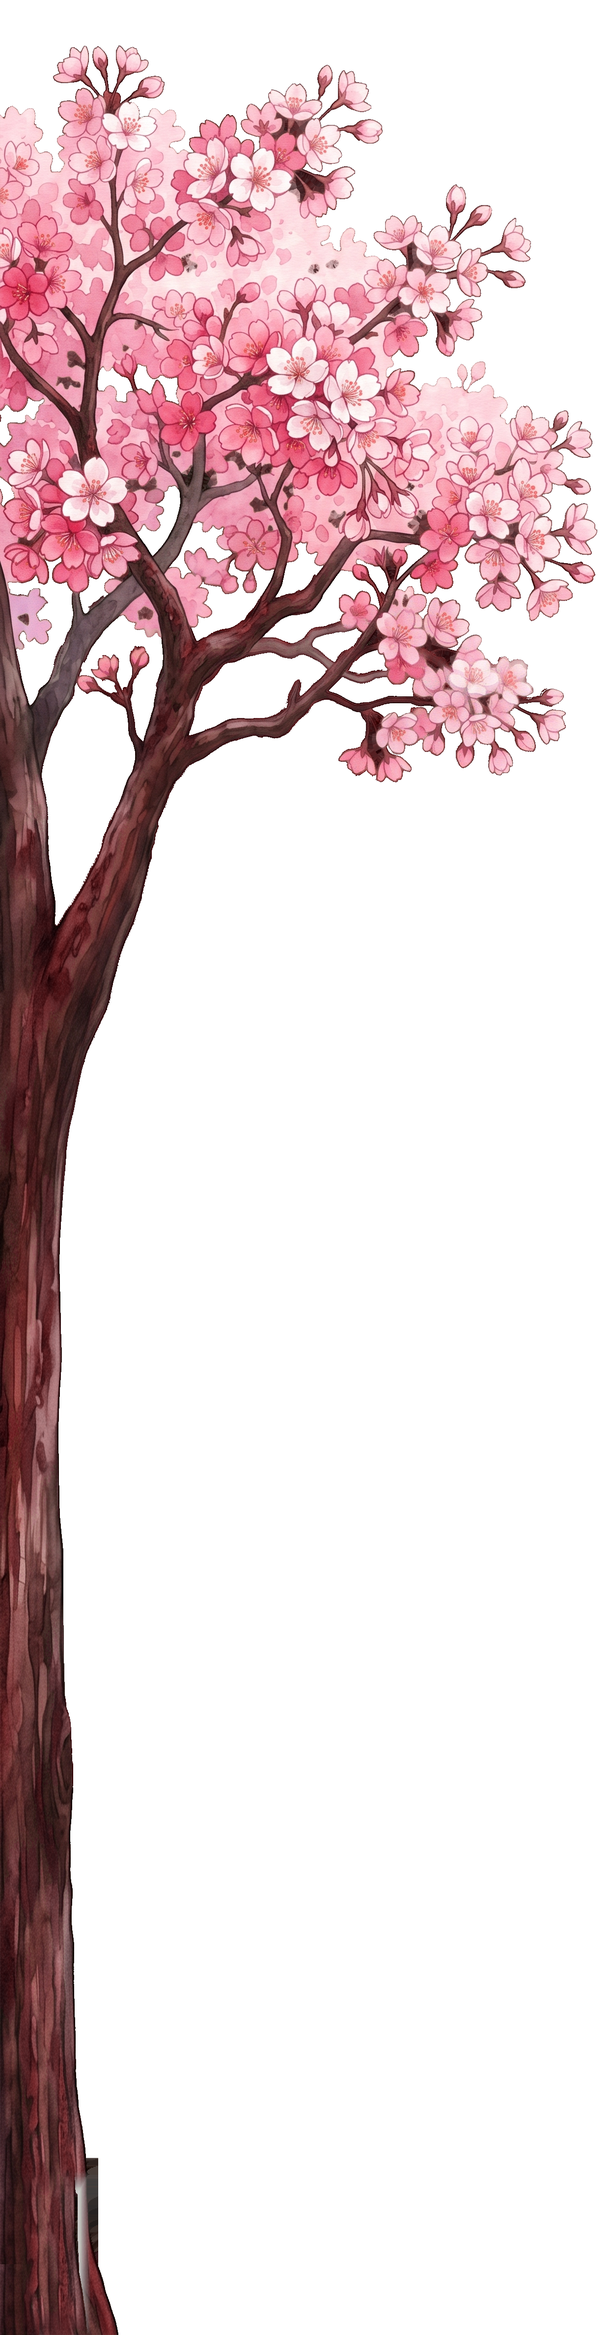
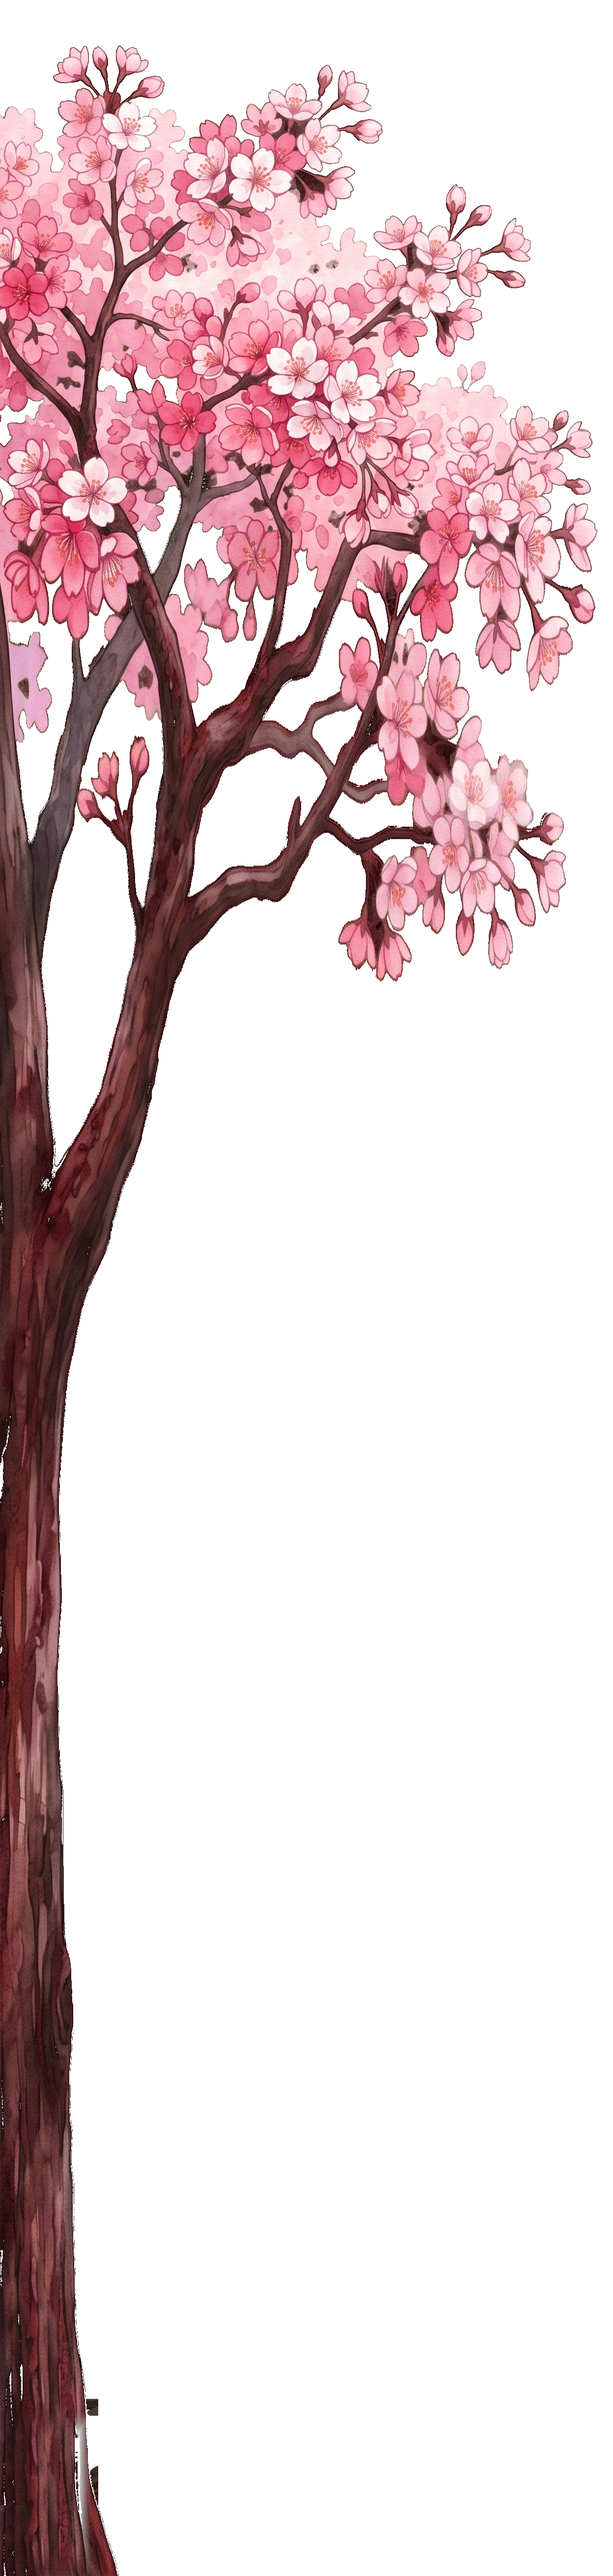
fix: 트리 split 32%로 + 검은 박스 제거
유저 보고:
- "left 중간에 나뭇가지도 늘린 것 같아" — split 50%가 너무 아래라 30~50% canopy 가지가 stretch 됨
- "left,right 최하단 양끝에 네모난 검은 박스 존재" — trunk 그림자 픽셀이 stretch 후 두드러짐

분석 결과:
- 실제 canopy 끝: y 30% (opaque width 745) → trunk 시작 40%
- 검은 박스: left 우하단 (x 1008-1242, y 4510-4747) ~7972 px
            right 좌하단 (x 5-239, y 4510-4747) ~6068 px

수정 (stretch_trunk_only.py):
- SPLIT 50% → 32% (실제 canopy 끝에 맞춤. 가지 안 stretch)
- 검은 픽셀 제거: R,G,B<30 + opaque → alpha=0
- 결과: 1248x3392 → 1248x5237 (1.54x)

petal _canopyY1 ratio: 0.40 → 0.32 (새 비율)

Changed region(s): [[0.0, 0.0, 0.9688, 0.9975]]

diff --git a/index.html b/index.html
@@ -13,7 +13,7 @@
 <script>
 // ★ 빌드 타임스탬프 — 매 index.html 업데이트 시 자동 증가. 업데이트 감지용.
 // diag: gamble revert + 업데이트 감지 진단 강화 (__BUILD_TS 선곡화면 노출)
-window.__BUILD_TS = 20260426110302;
+window.__BUILD_TS = 20260426111007;
 // ★ Firebase goOffline 부작용 — 인게임 진입 시 fbDb.goOffline() 호출하면 in-flight 중이던
 //   .set()/.once() Promise 들이 "Error: disconnect" 로 reject. 모두 fire-and-forget (결과 무관)
 //   이라 의도된 현상이지만 .catch 없이 쏘고 있어 "Uncaught (in promise)" 경고 스팸 발생.
@@ -9071,10 +9071,10 @@ function _updateBarkPetals(vh) {
   // 트리 draw 위치와 동일 산식 (renderBackplate 와 싱크)
   const _tHScale = (window._sakuraTreeHScale != null) ? window._sakuraTreeHScale : 1.2;
   const _tH = vh * _tHScale;
-  const _canopyTop = -safeTop - (_tH - vh) * 0.6; // 상단 overflow 포함
-  // 캐노피 Y 범위: 새 이미지에서 캐노피는 상단 0~40% (trunk 만 stretched 됐으므로).
+  const _canopyTop = -safeTop - (_tH - vh) * 0.6;
+  // 새 이미지: canopy = 상단 32% (1.8x trunk-stretched). Petal spawn 그 영역만.
   const _canopyY0 = _canopyTop + _tH * 0.02;
-  const _canopyY1 = _canopyTop + _tH * 0.40;
+  const _canopyY1 = _canopyTop + _tH * 0.32;
   // 캐노피 X 범위: 각 트리 이미지 bounds
   let _zoneL0 = 0, _zoneL1 = outerX;
   let _zoneR0 = outerR, _zoneR1 = W;

diff --git a/scripts/stretch_trunk_only.py b/scripts/stretch_trunk_only.py
@@ -1,28 +1,39 @@
 """
 sakura_tree 의 trunk(아래쪽) 만 세로 stretch.
-캐노피(위쪽 50%) 는 원본 비율 유지 → 꽃 부분 안 늘어나서 자연스러움.
-trunk(아래쪽 50%) 만 1.5배 늘림 → 전체 이미지 25% 길어짐.
-
-게임 코드의 _tHScale=1.25 와 동일한 시각 효과인데 캐노피 형태 보존.
+캐노피(위쪽 32%) 는 원본 비율 유지 → 꽃/가지 안 늘어남.
+trunk(아래쪽 68%) 만 stretch.
 
 진행:
-1. 이미지 분할 (top 50% / bottom 50%)
-2. bottom 만 1.5x vertical resize
-3. 합쳐서 새 이미지 (W x H*1.25)
-4. 저장 (덮어씀)
+1. 검은색 픽셀 제거 (R,G,B<30 + opaque → alpha=0): 원본 trunk 그림자 → 투명.
+2. 이미지 분할 (top 32% canopy / bottom 68% trunk)
+3. bottom 만 stretch
+4. 합쳐서 저장
 """
 import os
+import numpy as np
 from PIL import Image
 
 ROOT = r'D:\nanorhythm-assets\nanorhythm-assets'
 CONTAINER = os.path.join(ROOT, 'skins', 'neon', 'container')
 
-SPLIT_RATIO = 0.5     # 0~50% = 캐노피 (그대로), 50~100% = 트렁크 (stretch)
-STRETCH = 1.8          # 트렁크 1.8x stretch (전체 이미지 ~1.4x — 캐노피 화면 위로 잘리게)
+SPLIT_RATIO = 0.32    # 캐노피 끝 = 원본 30% 정도 (분석 기반). 0.32 안전.
+STRETCH = 1.8         # trunk stretch. 전체 이미지 (0.32 + 0.68*1.8) = 1.544x 길어짐.
+BLACK_THR = 30        # R,G,B 모두 이 미만 = 검은 박스 (trunk 그림자 artifact)
 
 for name in ['left', 'right']:
     p = os.path.join(CONTAINER, f'sakura_tree_{name}.png')
     img = Image.open(p).convert('RGBA')
+    arr = np.array(img)
+    h, w = arr.shape[:2]
+    r, g, b = arr[:,:,0], arr[:,:,1], arr[:,:,2]
+    # 검은 박스 → 투명
+    black = (r < BLACK_THR) & (g < BLACK_THR) & (b < BLACK_THR) & (arr[:,:,3] > 50)
+    n_black = int(black.sum())
+    arr[black, 3] = 0
+    img = Image.fromarray(arr, 'RGBA')
+    print(f'{name}: orig {w}x{h}, 검은 박스 제거 {n_black} px')
+
+    # split + stretch
     W, H = img.size
     split_y = int(H * SPLIT_RATIO)
     top = img.crop((0, 0, W, split_y))
@@ -34,4 +45,4 @@ for name in ['left', 'right']:
     new_img.paste(top, (0, 0))
     new_img.paste(bot_stretched, (0, split_y))
     new_img.save(p, optimize=True, compress_level=9)
-    print(f'{name}: {W}x{H} -> {W}x{new_h} ({(new_h/H):.2f}x), {os.path.getsize(p)/1024:.0f} KB')
+    print(f'  -> {W}x{new_h} ({(new_h/H):.2f}x), {os.path.getsize(p)/1024:.0f} KB')
